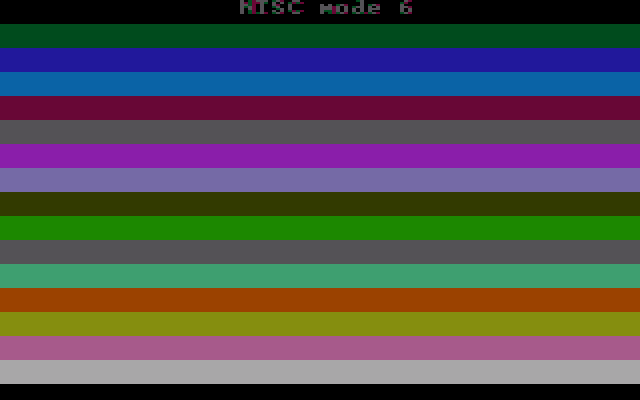
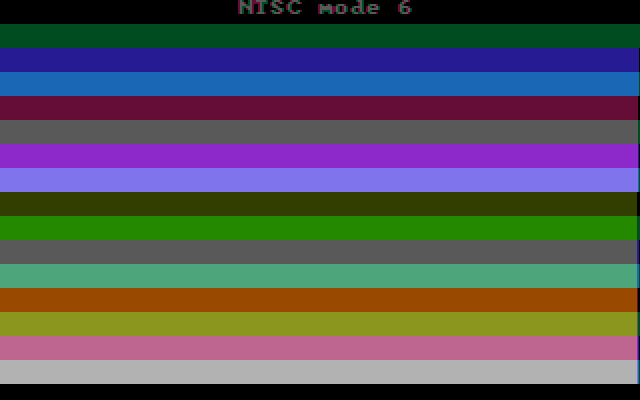
CGA composite colors working

diff --git a/core/src/video/video_buffer.rs b/core/src/video/video_buffer.rs
@@ -509,10 +509,20 @@ impl VideoBuffer {
         const SCREEN_WIDTH: usize = 640;
         const SCREEN_HEIGHT: usize = 200;
         const VRAM_BANK_SIZE: usize = 0x2000; // 8 KB per bank
+
+        // Brightness scale (1.0 = full, lower values dim the output).
+        const BRIGHTNESS: f32 = 0.7;
+        const HUE: f32 = 309.0;
+
         // Hardware base phase of the CGA color clock.
         // cga_intensity (bit 4 of port 0x3D9) inverts the colorburst phase by 180°.
         let intensity_phase = if self.cga_intensity { 180.0 } else { 0.0 };
-        let hue_setting = (309.0_f32 + intensity_phase) % 360.0;
+        let hue_setting = (HUE + intensity_phase) % 360.0;
+        let brightness = if self.cga_bg & 0x08 == 0 {
+            BRIGHTNESS
+        } else {
+            1.0
+        };
 
         // Pre-compute cos/sin phase for each horizontal position (4-pixel NTSC color cycle).
         let phase_lookup_cos: [f32; SCREEN_WIDTH] = std::array::from_fn(|x| {
@@ -555,7 +565,7 @@ impl VideoBuffer {
                     }
                 }
 
-                let yy = y_luma / 4.0;
+                let yy = (y_luma / 4.0) * brightness;
                 // Chroma amplitude: real CGA chroma is ~40% of luma range.
                 // Dividing by 5 (vs luma /4) keeps chroma from clamping artifact colors.
                 let ii = i_chroma / 5.0;

diff --git a/scripts/compare_colors.py b/scripts/compare_colors.py
@@ -2,11 +2,16 @@
 """Compare color bars between expected and actual composite renders.
 Analyzes whether differences are hue, saturation, or brightness (HSV).
 """
+import sys
 from PIL import Image
 import colorsys
 
-exp = Image.open('core/src/test_data/video/ct755r/ntsc_out_m6.png').convert('RGB')
-act = Image.open('core/src/test_data/video/ct755r/ntsc_out_m6_actual.png').convert('RGB')
+if len(sys.argv) != 3:
+    print(f'Usage: {sys.argv[0]} <expected.png> <actual.png>', file=sys.stderr)
+    sys.exit(1)
+
+exp = Image.open(sys.argv[1]).convert('RGB')
+act = Image.open(sys.argv[2]).convert('RGB')
 
 def avg_row(img, y):
     w = img.width
